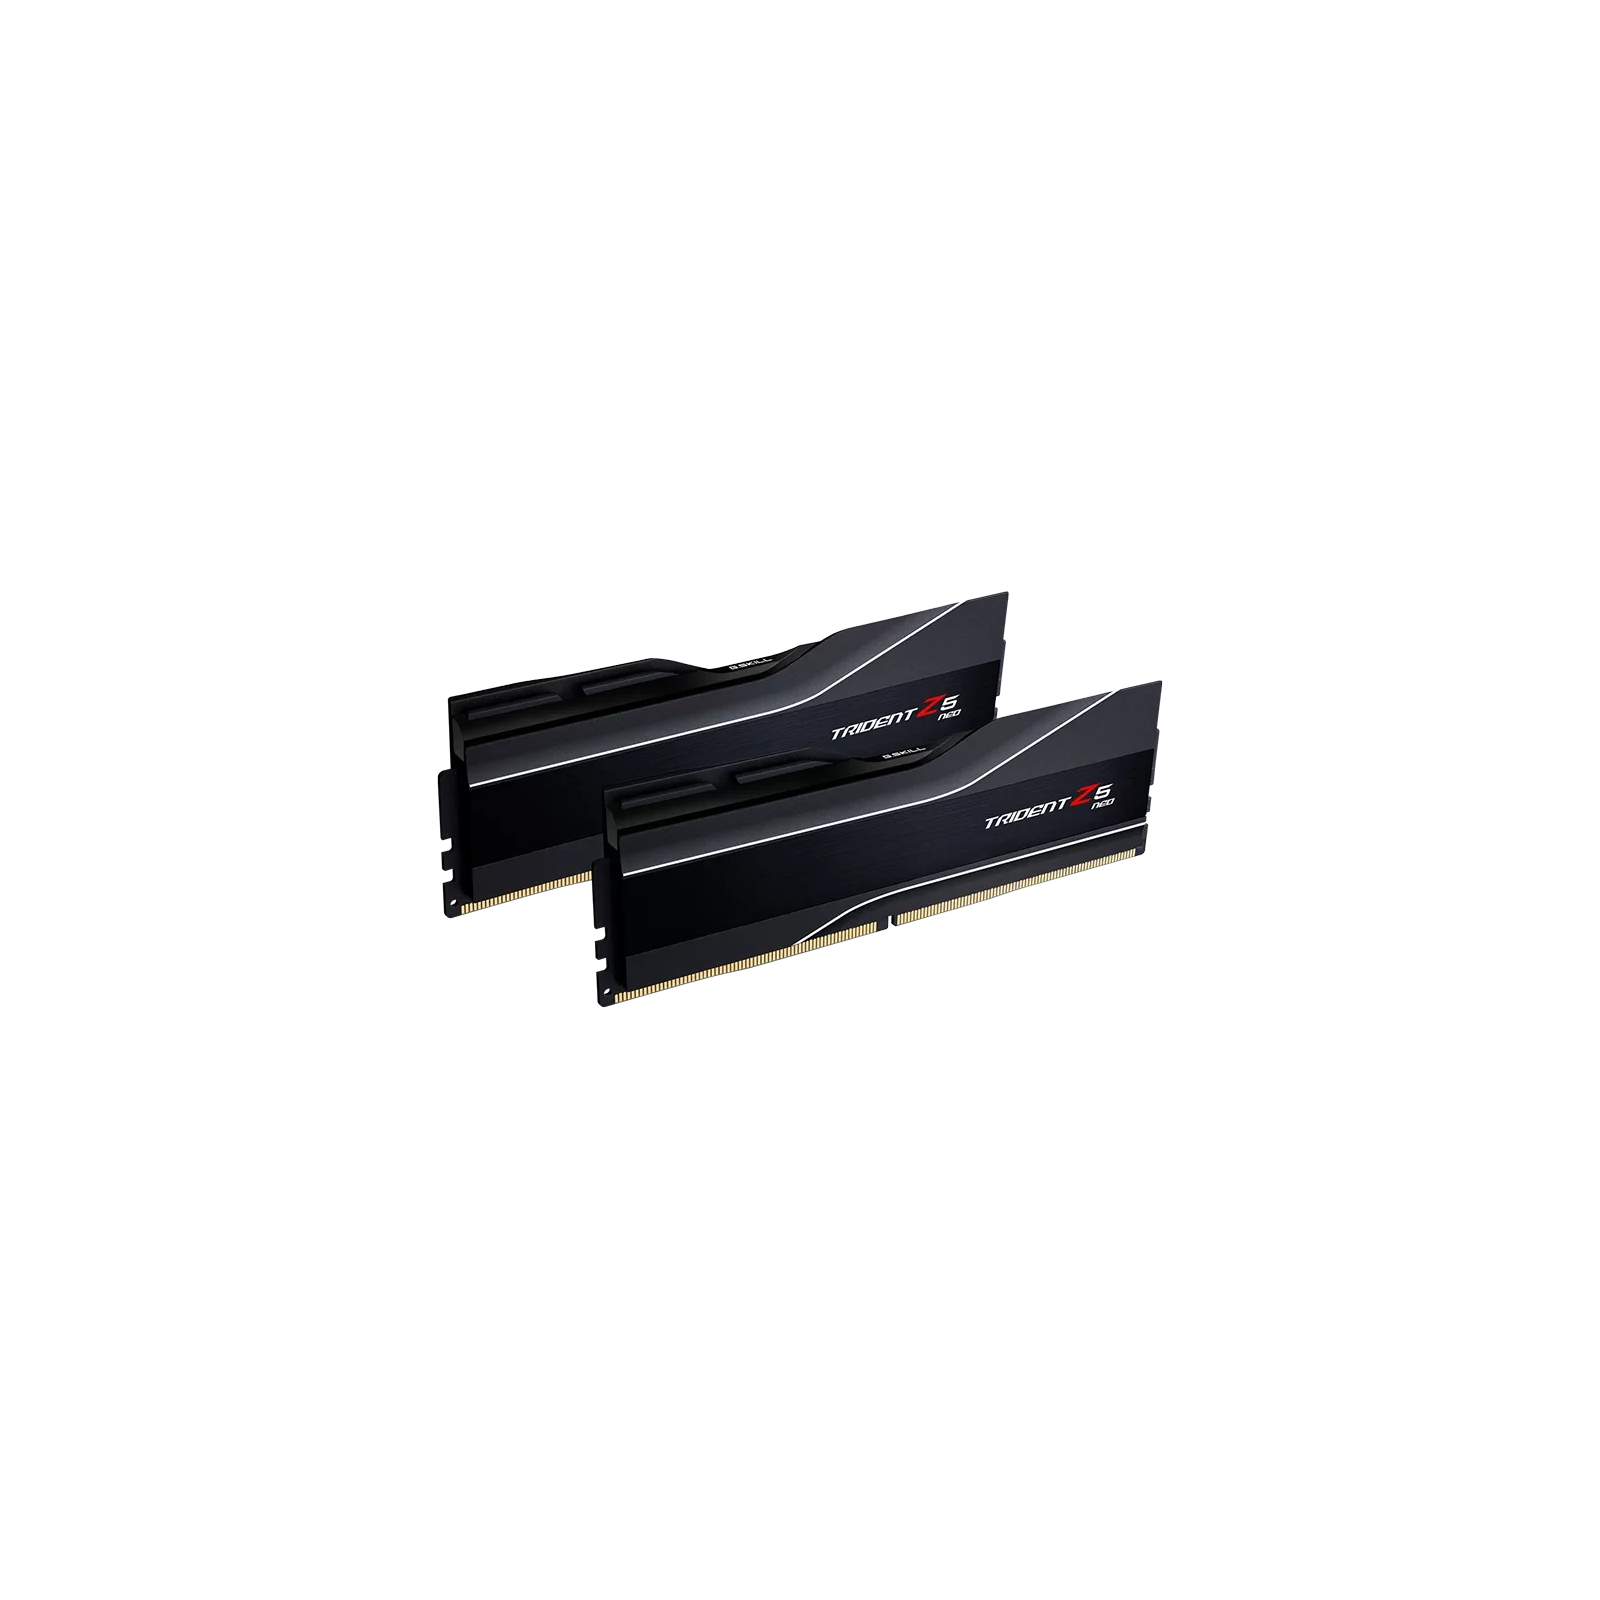
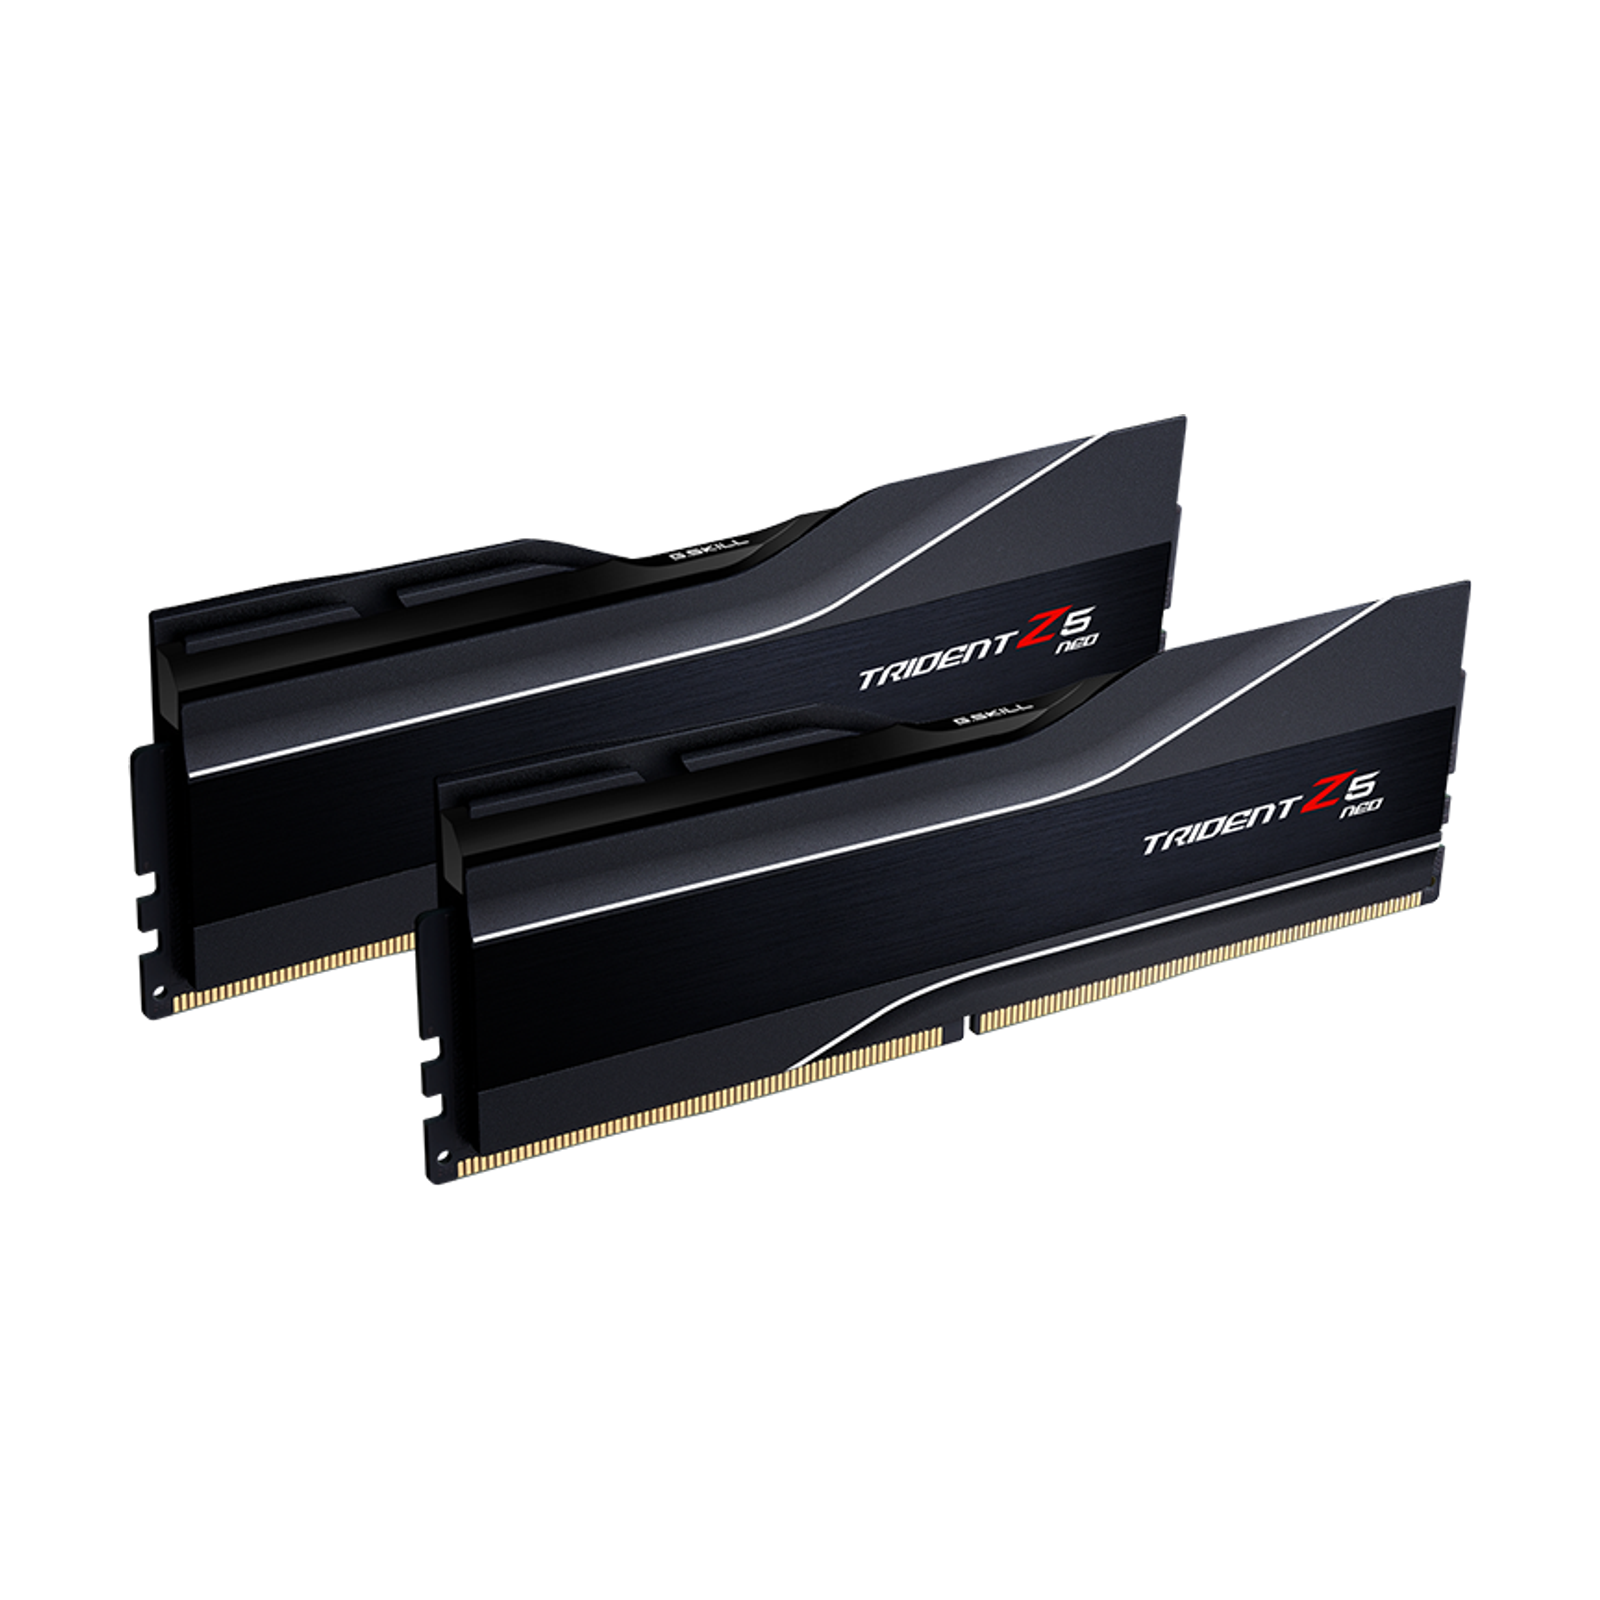
fix: align gskill cutout scale

Changed region(s): [[0.0625, 0.25, 0.9375, 0.75]]

diff --git a/tests/unit/product-cutout.test.ts b/tests/unit/product-cutout.test.ts
@@ -10,6 +10,7 @@ import {
   normalizeProductCutout,
   readCornerAlpha,
 } from '../../scripts/lib/product-cutout.mjs'
+import { getProductCutoutPolicy } from '../../scripts/product-cutout-policy.mjs'
 
 const execFileAsync = promisify(execFile)
 
@@ -155,4 +156,16 @@ test('el CLI deja intacto un sentinela junto a la salida solicitada', async () =
   } finally {
     await rm(directory, { recursive: true, force: true })
   }
+})
+
+test('la política de G.Skill permite ampliación controlada sin cambiar los valores predeterminados', () => {
+  expect(getProductCutoutPolicy('gskill-trident-z5-neo-32gb-6000')).toEqual({
+    canvas: 1600,
+    occupancy: 0.84,
+    allowEnlargement: true,
+  })
+  expect(getProductCutoutPolicy('corsair-vengeance-ddr5-32gb-6000')).toEqual({
+    canvas: 1600,
+    occupancy: 0.84,
+  })
 })
